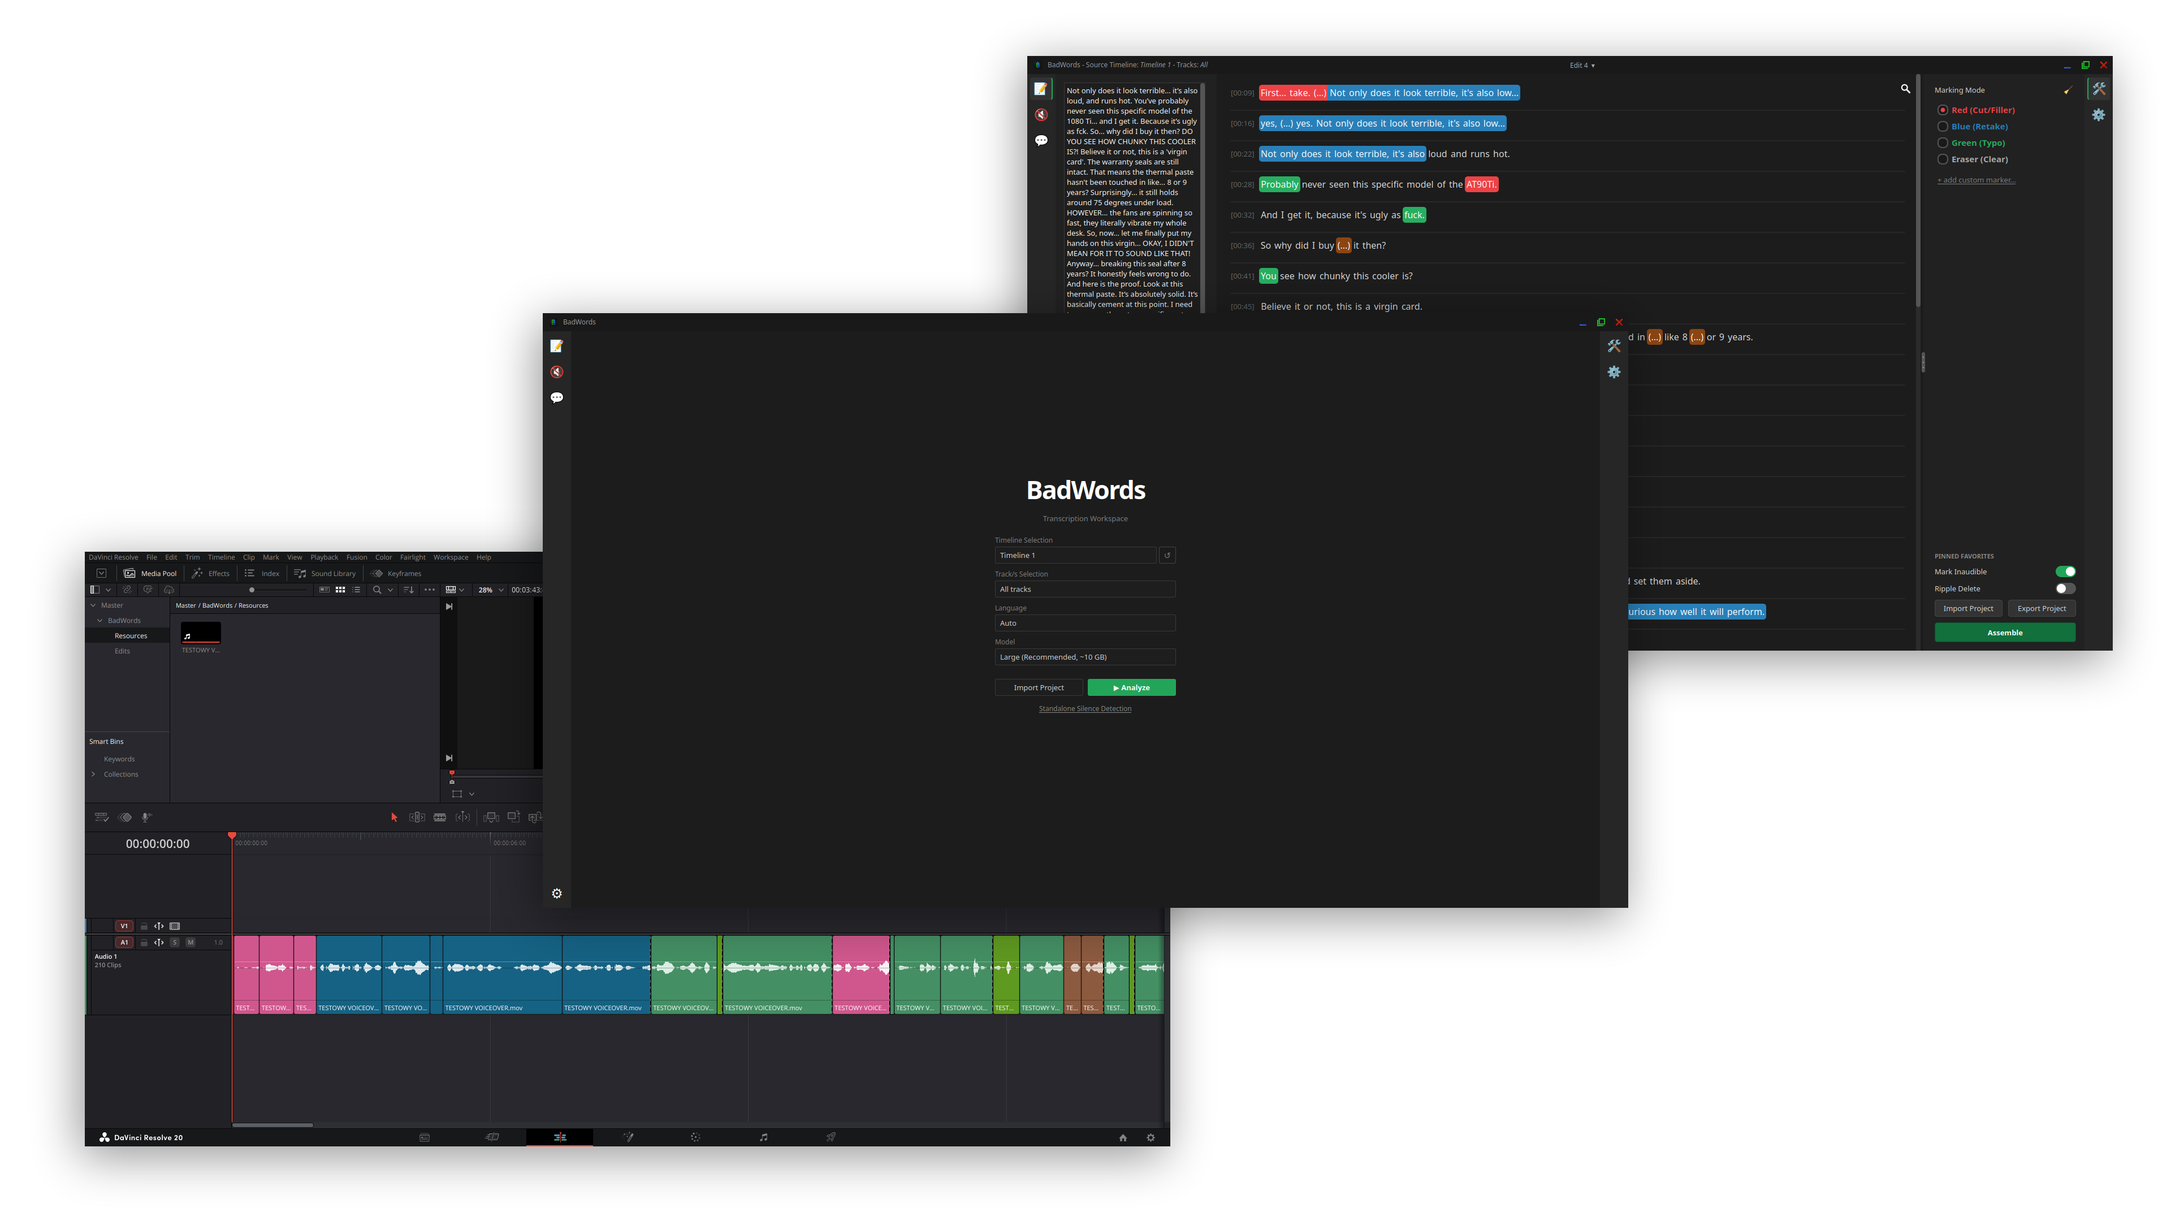
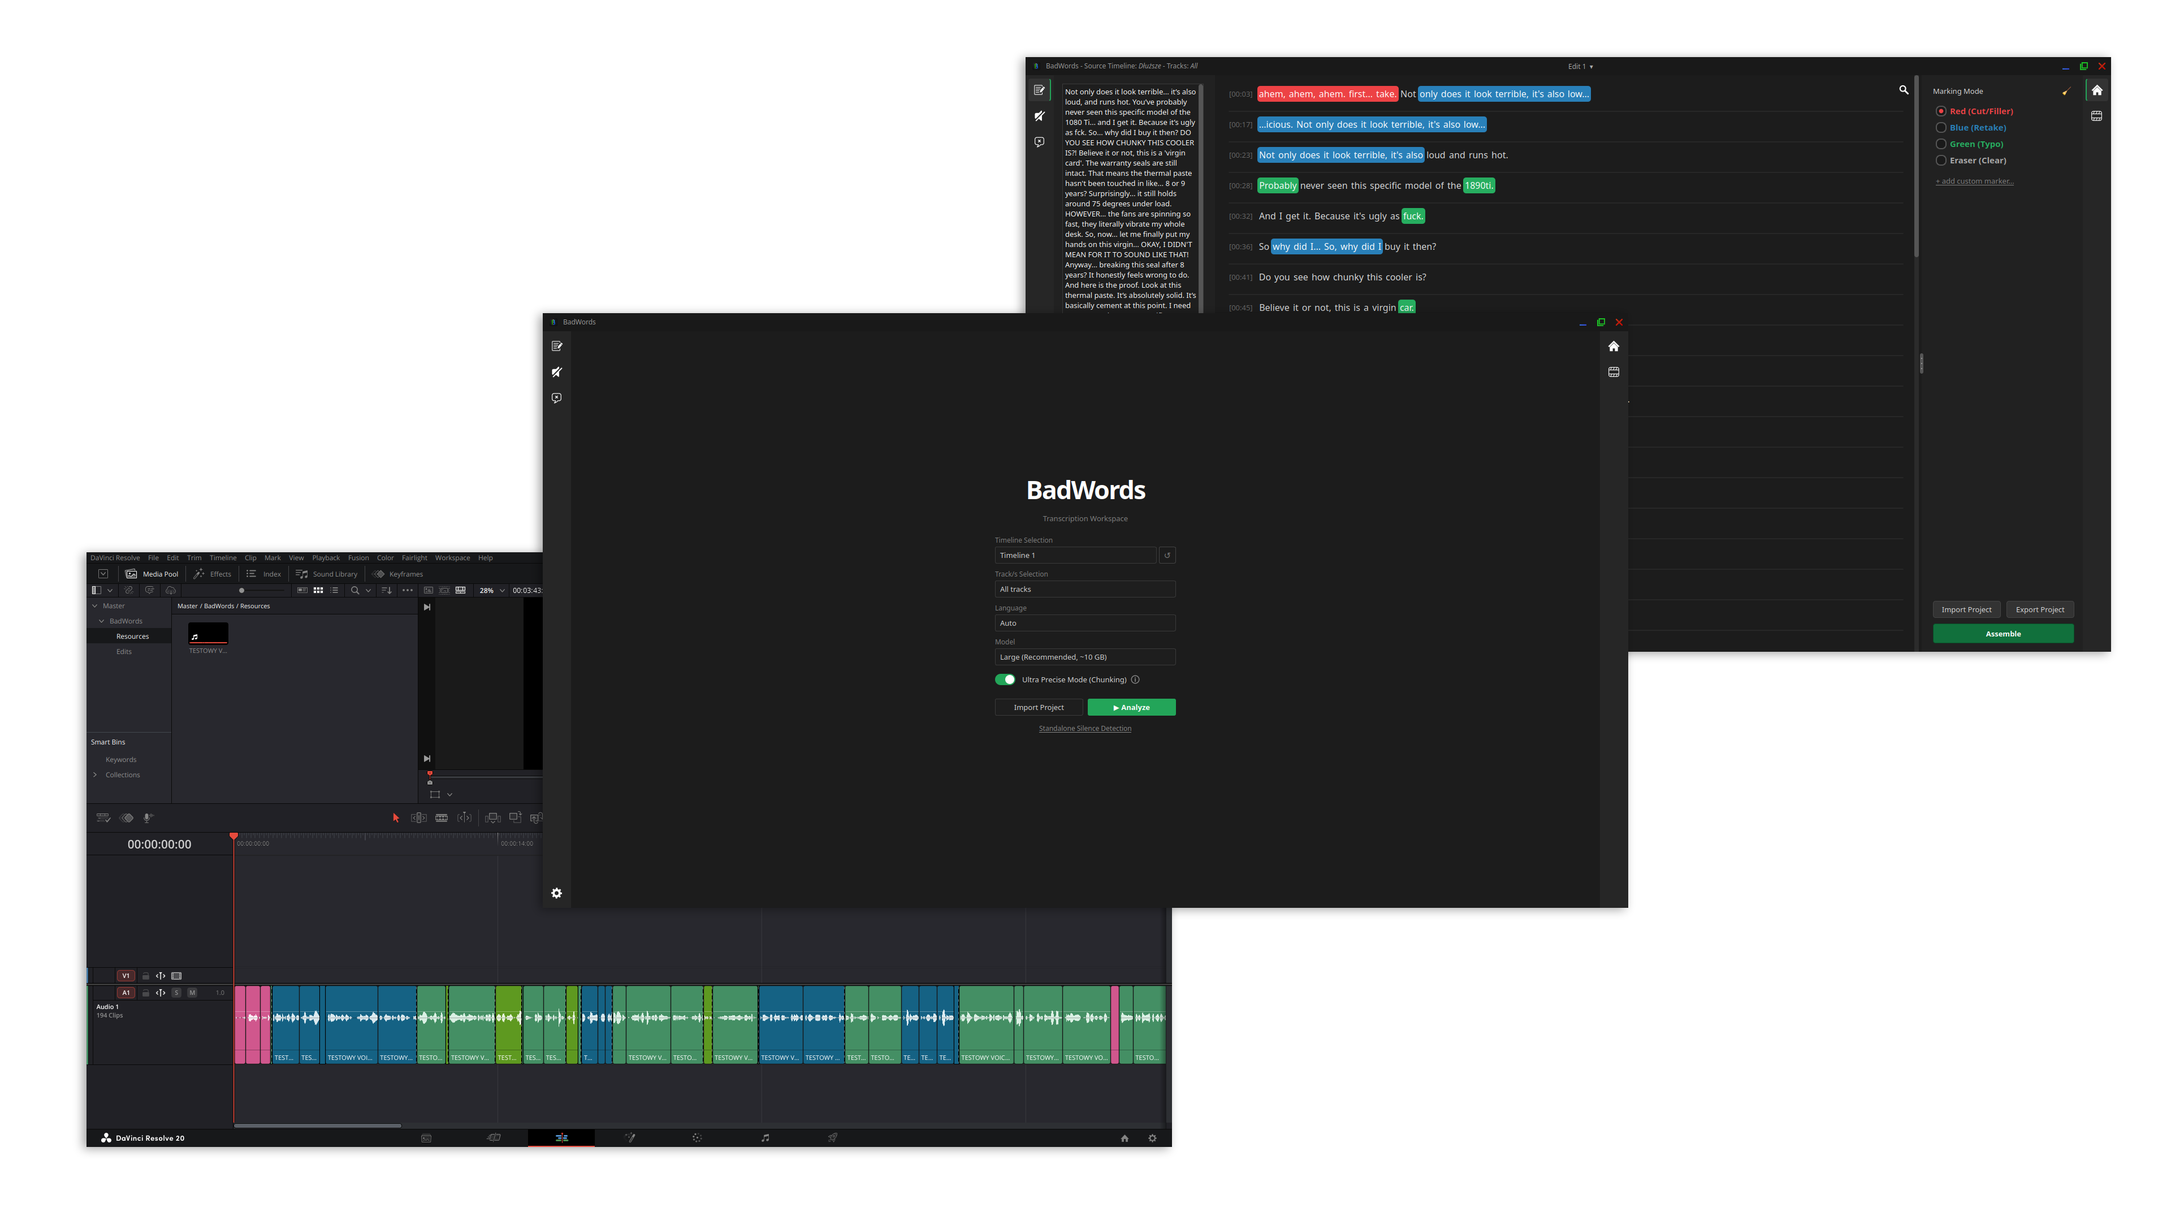
FINAL commit of version 3.0

diff --git a/setupfiles/setup.py b/setupfiles/setup.py
@@ -141,7 +141,12 @@ def getch():
     else:
         import tty, termios, select
         fd = sys.stdin.fileno()
-        old = termios.tcgetattr(fd)
+        try:
+            old = termios.tcgetattr(fd)
+        except (termios.error, OSError):
+            # stdin is not a TTY (pipe, subshell, CI, etc.) — fallback to plain readline
+            line = sys.stdin.readline()
+            return line[0] if line else "ESC"
         try:
             tty.setraw(fd)
             ch = sys.stdin.read(1)
@@ -155,7 +160,8 @@ def getch():
             termios.tcsetattr(fd, termios.TCSADRAIN, old)
 
 def readline_with_esc(show_cursor=True):
-    """Read a line character-by-character. ESC/Ctrl+C cancels → raises UserCancelled."""
+    """Read a line character-by-character. ESC/Ctrl+C cancels → raises UserCancelled.
+    On Windows, Ctrl+V pastes from the clipboard."""
     if os.name == "nt":
         import msvcrt
         buf = []
@@ -171,6 +177,27 @@ def readline_with_esc(show_cursor=True):
                     buf.pop()
                     sys.stdout.write("\b \b"); sys.stdout.flush()
                 continue
+            # Ctrl+V — paste from Windows clipboard
+            if ch == b"\x16":
+                try:
+                    import ctypes
+                    ctypes.windll.user32.OpenClipboard(0)
+                    hData = ctypes.windll.user32.GetClipboardData(13)  # CF_UNICODETEXT
+                    pData = ctypes.windll.kernel32.GlobalLock(hData)
+                    raw_paste = ctypes.wstring_at(pData)
+                    ctypes.windll.kernel32.GlobalUnlock(hData)
+                    ctypes.windll.user32.CloseClipboard()
+                    # Only paste printable chars, strip newlines
+                    for c in raw_paste:
+                        if c in ("\r", "\n"):
+                            break
+                        if c.isprintable():
+                            buf.append(c)
+                            sys.stdout.write(c)
+                    sys.stdout.flush()
+                except Exception:
+                    pass
+                continue
             try:
                 c = ch.decode("utf-8")
                 if c.isprintable():
@@ -181,7 +208,14 @@ def readline_with_esc(show_cursor=True):
     else:
         import tty, termios, select
         fd = sys.stdin.fileno()
-        old = termios.tcgetattr(fd)
+        try:
+            old = termios.tcgetattr(fd)
+        except (termios.error, OSError):
+            # stdin is not a TTY — fallback to plain input()
+            try:
+                return input()
+            except (EOFError, KeyboardInterrupt):
+                raise UserCancelled()
         buf = []
         try:
             tty.setraw(fd)
@@ -1269,7 +1303,12 @@ def option_move():
 
     new_path = os.path.expanduser(raw.strip())
     if not new_path.endswith(APP_NAME):
-        new_path = os.path.join(new_path.rstrip("/\\"), APP_NAME)
+        base = new_path.rstrip("/\\")
+        # On Windows, bare drive letters like "G:" need a trailing sep
+        # otherwise os.path.join("G:", "BadWords") → "G:BadWords" (relative!)
+        if os.name == "nt" and len(base) == 2 and base[1] == ":":
+            base = base + "\\"
+        new_path = os.path.join(base, APP_NAME)
 
     if os.path.abspath(install_dir) == os.path.abspath(new_path):
         console.print()
@@ -1398,6 +1437,17 @@ def option_move():
             sp_swap.done(ok=True)
             log_ok("All packages transplanted — no downloads needed.")
             transplanted = True
+            # On Windows, PySide6 DLLs have path-sensitive internal references
+            # that break when moved between drives/directories. Force-reinstall
+            # only PySide6 (small) to get correct DLL paths — PyTorch stays cached.
+            if os.name == "nt":
+                sp_ps = Spinner("Fixing PySide6 DLL paths (Windows)").start()
+                r = subprocess.run(
+                    [venv_py, "-m", "pip", "install", "--force-reinstall", "PySide6", "-q"],
+                    capture_output=True, text=True)
+                sp_ps.done(ok=r.returncode == 0)
+                if r.returncode != 0:
+                    log_warn("PySide6 re-install failed — app may not start correctly.")
         except Exception as e:
             sp_swap.done(ok=False)
             log_warn(f"Transplant failed: {e}")

diff --git a/README.md b/README.md
@@ -2,38 +2,42 @@
 <h3 align="center">Cleaner Timelines, Faster. Simpler Rough-Cutting for DaVinci Resolve.</h3>
 
 <p align="center">
-  <img src="repo/editor_preview.png" alt="BadWords Preview" width="85%">
+  <img src="repo/preview.png" alt="BadWords Preview" width="100%">
 </p>
 
 <p align="center">
   <a href="#-windows"><img src="https://img.shields.io/badge/Windows-0078D6?style=for-the-badge&logo=windows&logoColor=white" alt="Windows Download"></a>
   <a href="#-windows"><img src="https://img.shields.io/badge/SUPPORTED_✅-333333?style=for-the-badge" alt="Supported"></a>
-  <br><br>
+  &nbsp;&nbsp;&nbsp;&nbsp;
+  <a href="#-macos"><img src="https://img.shields.io/badge/macOS-000000?style=for-the-badge&logo=apple&logoColor=white" alt="macOS Script"></a>
+  <a href="#-macos"><img src="https://img.shields.io/badge/SUPPORTED_✅-333333?style=for-the-badge" alt="Supported"></a>
+  &nbsp;&nbsp;&nbsp;&nbsp;
   <a href="#-linux-any-distro"><img src="https://img.shields.io/badge/Linux-FCC624?style=for-the-badge&logo=linux&logoColor=black" alt="Linux Script"></a>
   <a href="#-linux-any-distro"><img src="https://img.shields.io/badge/SUPPORTED_✅-333333?style=for-the-badge" alt="Supported"></a>
-  <br><br>
-  <a><img src="https://img.shields.io/badge/macOS-000000?style=for-the-badge&logo=apple&logoColor=white" alt="macOS Script"></a>
-  <a><img src="https://img.shields.io/badge/SOON!-333333?style=for-the-badge" alt="Soon!"></a>
 </p>
 
 ---
 
 ## 💡 What is it?
 
-**BadWords** is a plugin-app for DaVinci Resolve built for anyone dealing with dialogue-heavy footage (podcasts, talking heads, gameplays). Instead of scrubbing through hours of video on a timeline to find silences, retakes, and filler words, BadWords transforms your workflow into an easy interactive experience.
+**BadWords** is a plugin-app for DaVinci Resolve built for anyone dealing with dialogue-heavy footage (podcasts, talking heads, gameplays). Instead of scrubbing through hours of audio on a timeline to find silences, retakes, and filler words, BadWords transforms your workflow into an easy text-editing experience.
 
-It uses local AI (Faster-Whisper) to give you a full transcript of your audio. You can then review the cuts, remove silences and filler words, and with one click, send the processed timeline back to Resolve — complete with markers and cuts. 
+It uses local AI (Faster-Whisper) to give you a full transcript of your audio. You can then color-code mistakes, compare it against your original script, and with one click, send the processed timeline back to Resolve — complete with markers and cuts. 
 
-BadWords does **80% of the tedious work for you** (cutting tight silences, marking obvious bloopers), leaving the final polishing to you.
+BadWords does **80% of the tedious work for you** (cutting tight silences, marking obvious bloopers), leaving only the final polishing to you.
 
 ## ⚙ How it works
 
 1. **Select & Transcribe:** Launch BadWords directly from Resolve, pick your audio tracks, and hit Analyze. The AI transcribes everything.
-2. **Interactive Review:** Review transcript before assembling it, find deviations, check badtakes and remove silence & filler words (emm, ahh)
-3. **Assemble Timeline:** Once you're done reviewing, hit Assemble. BadWords automatically generates a **brand new, clean timeline** inside Resolve with all your cuts and color markers applied perfectly.
+2. **Edit like a Document:** Your audio opens as text in an IDE-inspired editor. You (or the algorithm) can paint words with different colors:
+   * 🔴 **Red** — Filler words / obvious mistakes to remove
+   * 🔵 **Blue** — Retakes / duplicates
+   * 🟢 **Green** — Typos / close matches
+3. **Compare to Script:** If you have an original script, BadWords can automatically compare it against your transcript to highlight missing lines and deviations. *(Standalone analysis without a script is currently still in the works!)*
+4. **Assemble Timeline:** Once you're done playing with the text, hit Assemble. BadWords automatically generates a **brand new, clean timeline** inside Resolve with all your cuts and color markers applied perfectly.
 
 <p align="center">
-  <img src="repo/heatmap.png" alt="BadWords Heatmap" width="85%">
+  <img src="repo/heatmap_preview.png" alt="BadWords Heatmap" width="85%">
 </p>
 
 ## ✨ Why use BadWords?
@@ -45,60 +49,96 @@ BadWords does **80% of the tedious work for you** (cutting tight silences, marki
 
 ---
 
-## 🛠 What's new in 2.0.3?
+## 🔥 What's New in 3.0?
 
-- **Percentage Progress Bar:** Transcription now shows a precise, real-time percentage progress bar so you always know exactly how far along Whisper is.
-- **Full Uninstallers:** Both Windows and Linux now ship with complete, scorched-earth uninstallers that cleanly remove all associated files, hidden folders, and registry entries — no leftovers.
-- **Linux Install Path Selection:** The Linux installer now lets you choose a custom installation path instead of forcing a single fixed location.
-- **Geolocation opt-out in Telemetry:** You can now disable geolocation in the optional telemetry ping. Opting out strips all location data from the anonymous install/update signal.
-- **Subprocess stability fixes:** Resolved edge-case crashes in background subprocess handling for more reliable transcription runs.
-- **Installer optimisations:** Both installers are smarter — the Linux script skips redundant PyTorch downloads when updating, and the GPU acceleration mode is auto-detected on updates so you don't have to pick it again.
+Version 3.0 is the biggest update yet — completely rewriting the core of the app:
+* **IDE-Inspired Interface:** I ditched the simple Tkinter UI for a powerful `PySide6` interface, directly inspired by tools like VS Code. Enjoy custom sidebars, completely draggable and readjustable panels, and a sleek settings menu.
+* **EXTREME Precision:** Version 3.0 comes with Ultra Precise Mode which uses chunking feature to NOT MISS A SINGLE STUTTER. The time of transcription can get higher
+* **Custom Markers:** Create your own named markers from 11 available DaVinci Resolve colors to categorize clips exactly how you want.
 
----
-
-## 📋 Requirements
-- **App:** DaVinci Resolve (Free or Studio)
-- **Hardware:** NVIDIA GPU highly recommended for acceleration (CPU-only mode is available).
-- **Disk Space:** ~15GB free space for the app, plus 1–10GB depending on your chosen AI models.
+**...and this is just the beginning.** The new UI is still heavily in development, and future updates are planned to include side-by-side script comparison views, ultra-precise captions, and standalone filler word detection without needing a base script.
 
 ---
 
 ## 🛠 Installation & Setup
 
-> **Note:** The installation process may take a while depending on your internet connection. It downloads ~15GB of essential AI libraries and UI components required to run entirely offline. Internet is also required for first analysis to download chosen AI Whisper model
+I know that installing plugins can sometimes be a headache. That's why I made BadWords use a **unified, one-click installation process** that looks and works exactly the same on every operating system. You don't need to manually download zip files, configure paths, or install dependencies.
 
-### 🪟 Windows
-Simply download the standard installer and follow the process.
-1. Download the latest `.exe` from [GitHub Releases](https://github.com/veritus-git/BadWords/releases/latest) (or if you encounter issues [GitLab Releases](https://gitlab.com/badwords/BadWords/-/releases/permalink/latest)).
-2. Run the executable and follow the on-screen instructions.
+### 📝 The Installation Process
 
-### 🐧 Linux (Any Distro, Latest Version)
-For the fastest setup, you can use this one-line installer. Open your terminal and run:
+1. **Copy the command** for your specific operating system from the section below.
+2. **Paste the command** into your terminal (PowerShell on Windows, Terminal on macOS/Linux) and press **Enter**.
+3. Wait for the script to prepare the environment. The following BadWords Setup menu will appear:
 
-```bash
-# From GitHub
-/bin/bash -c "$(curl -fsSL https://raw.githubusercontent.com/veritus-git/BadWords/main/setupfiles/legacy/linux-setup.sh)"
-```
+<p align="center">
+  <img src="repo/setup_preview.png" alt="BadWords Setup Preview" width="70%">
+</p>
 
-```bash
-# Or from GitLab if you encounter issues
-/bin/bash -c "$(curl -fsSL https://gitlab.com/badwords/BadWords/-/raw/main/setupfiles/legacy/linux-setup.sh)"
-```
+4. **Press `1`** for the standard installation.
+5. Provide a path where you want BadWords (~15GB) and your chosen AI models to be installed, or simply **press Enter** to use the default location.
+6. Wait for the download to complete (It will take a while because its downloading heavy libraries), and once you see the success message, you can safely **close the terminal**. 
 
-**Terminal Installation Steps:**
-1. After pasting the command, a menu with 5 options will appear in your terminal.
-2. Press **Enter** to proceed with the default installation.
-3. You will be asked for the target installation path. Type your desired path or just press **Enter** to use the default location for the app and its models.
+> **Note:** As you can see on the screenshot above, the installer menu gives you 4 other options besides standard installation. In the future, you can use the exact same command to Update your app, Repair broken files, Move the installation to another drive, or completely Uninstall BadWords!
 
 ---
 
-**Older Versions (ZIP Archive) / Manual Download:**
-If you want to install a specific older version, you must download the `.zip` archive from [Releases](https://github.com/veritus-git/BadWords/releases) instead of using the commands above.
-1. Download and extract the `.zip` archive.
-2. Open the extracted folder in your terminal.
-3. Make the script executable: `chmod +x linux_setup.sh`
-4. Run the installer: `./linux_setup.sh`
-5. Follow the instructions in "Terminal Installation Steps" above.
+### 🚀 Option 1: Automated Terminal Command (Recommended)
+The absolute easiest way to start the setup. It securely downloads and runs the open-source installer script directly from this repository.
+
+> 🔍 *Note: The commands below only prepare your system before running the main installer. [You can view the core setup.py script here](https://github.com/veritus-git/BadWords/blob/main/setupfiles/setup.py).*
+
+<br>
+
+#### 🪟 Windows
+Open the Start Menu, search for **PowerShell**, open it, paste the following command, and press **Enter**:
+
+```powershell
+irm "https://raw.githubusercontent.com/veritus-git/BadWords/main/setupfiles/windows-setup.ps1" | iex
+```
+
+
+<br>
+
+#### 🍎 macOS
+> [!WARNING]
+> BadWords will not work with the Mac App Store version of DaVinci Resolve. Re-install from the [official website](https://www.blackmagicdesign.com/products/davinciresolve/) if needed.
+
+
+Open the **Terminal** app (search with Spotlight `Cmd + Space`), paste the following command, and press **Enter**:
+
+```bash
+curl -fsSL "https://raw.githubusercontent.com/veritus-git/BadWords/main/setupfiles/mac-setup.sh" | bash
+```
+
+
+<br>
+
+#### 🐧 Linux (Any Distro)
+Open your terminal, paste the following command, and press **Enter**:
+
+```bash
+curl -fsSL "https://raw.githubusercontent.com/veritus-git/BadWords/main/setupfiles/linux-setup.sh" | bash
+```
+
+<br>
+
+---
+
+### 📦 Option 2: Manual Install
+Don't like pasting terminal commands? I completely understand! You can run the setup manually:
+1. Go to the [Releases page](https://github.com/veritus-git/BadWords/releases/latest) and download the Source Code `.zip`.
+2. Extract the folder somewhere on your drive.
+3. Open the `setupfiles` folder inside the extracted directory.
+4. Run the setup script dedicated to your OS.
+
+---
+
+### 🛡 Wait, are these terminal commands actually safe?
+Pasting `curl` or `iex` commands can trigger red flags for cautious users. Here is why BadWords uses them and why you don't need to worry:
+
+* **Zero System Interference:** These commands **do not require Administrator / root privileges** (no `sudo` or "Run as Administrator" needed). Everything is downloaded into a safe, isolated directory in your local user folder.
+* **Always Up-to-Date:** Fetching the script directly from GitHub ensures you are always running the latest version of the installer, so you don't have to deal with broken links or outdated dependencies.
+* **100% Transparent:** The commands point directly to plain-text files hosted right here on GitHub. You can click the *View script* links above to read every single line of code before pressing Enter!
 
 ---
 
@@ -107,9 +147,15 @@ If you want to install a specific older version, you must download the `.zip` ar
 1. Open DaVinci Resolve and navigate to a project timeline.
 2. At the very top menu bar, click on **Workspace** → **Scripts** → **BadWords**.
 
-> **Important:** Your *first launch*, *first transcription*, and *first analysis* will take considerably longer than usual as the AI model completes its initial setup for your hardware. **All subsequent transcriptions are much faster.**
-
+> **Important:** Your *first launch*, *first transcription*, and *first analysis* will take considerably longer than usual as the AI model completes its initial setup for your hardware. **All subsequent transcriptions are much faster.** <br>
 > **Note:** Whisper models perform best with English and major European languages. Other languages are supported but might yield lower precision.
+
+---
+
+## 📋 Requirements
+- **App:** DaVinci Resolve (Free or Studio) — **Not from the App Store!**
+- **Hardware:** NVIDIA GPU highly recommended for acceleration (CPU-only mode is available).
+- **Disk Space:** ~15GB free space for the app, plus 1–10GB depending on your chosen AI models.
 
 ---
 
